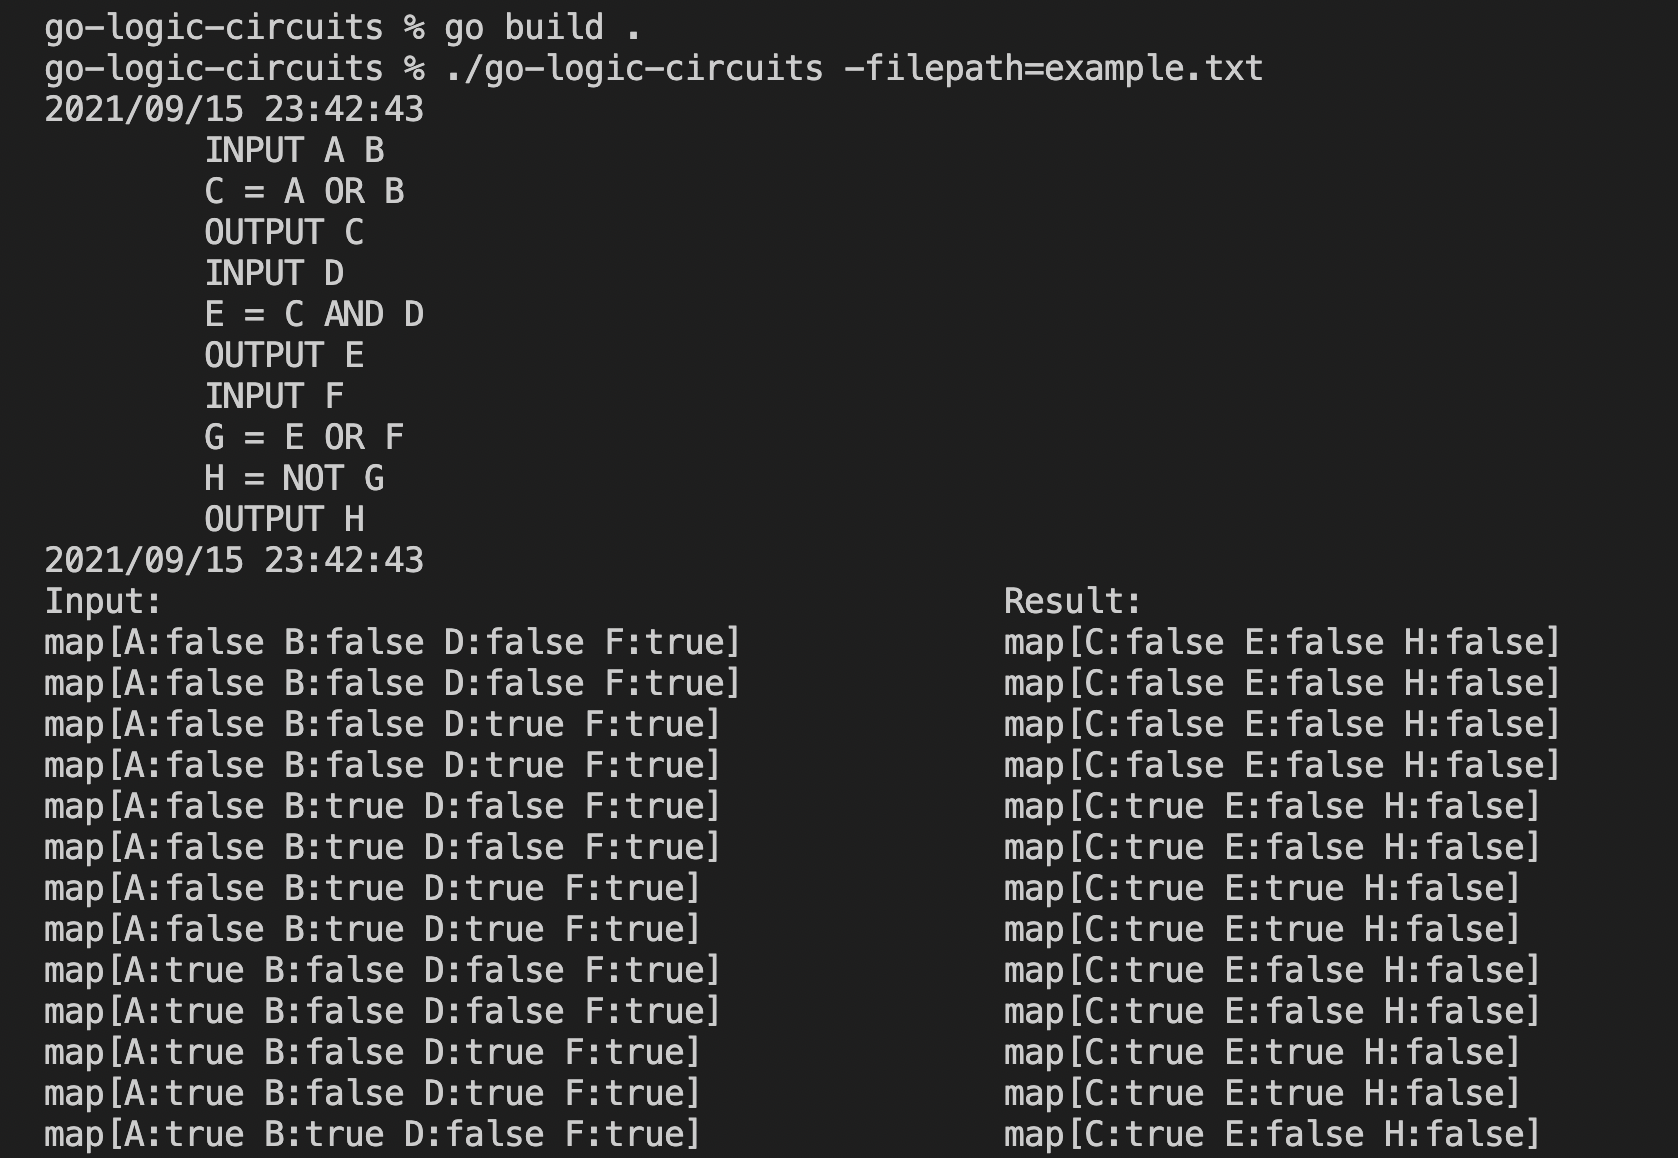
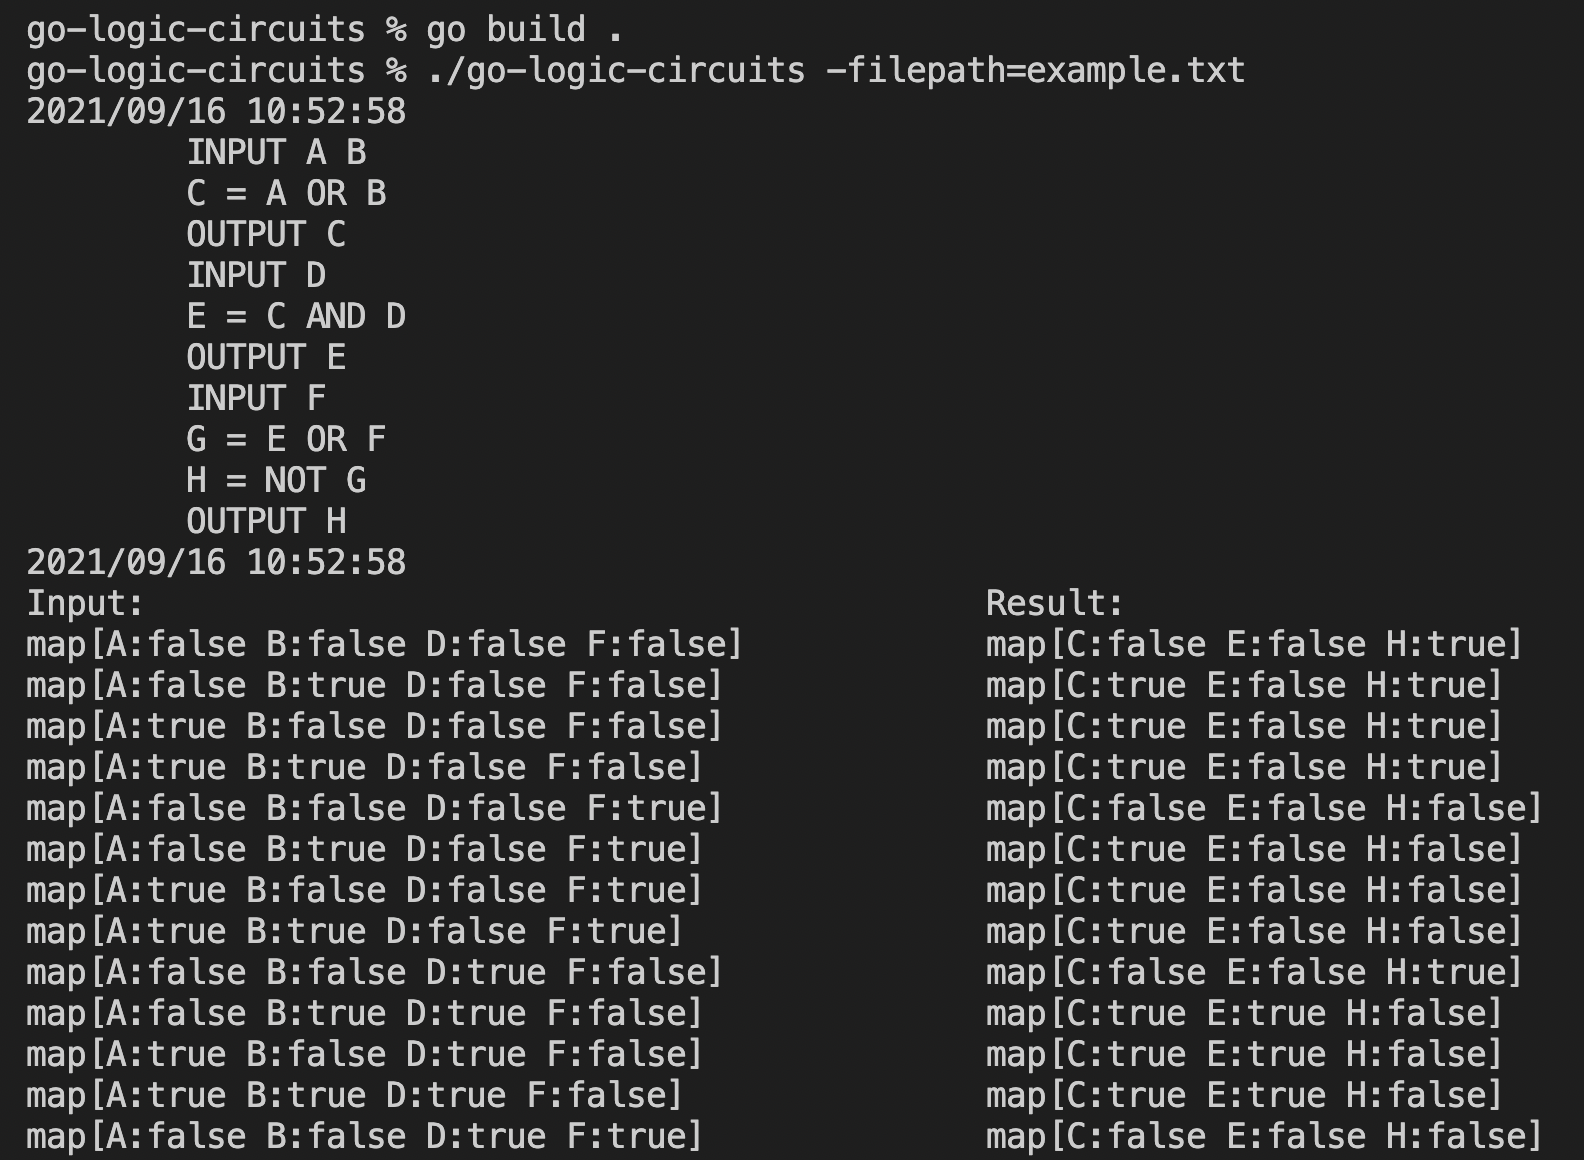
update image and small code change

Changed region(s): [[0.0, 0.0, 0.7734, 0.9948], [0.5878, 0.4974, 0.9899, 0.9948]]

diff --git a/main.go b/main.go
@@ -88,7 +88,8 @@ func main() {
 	} else {
 		// run an enumeration
 		tree := makeTree(len(circ.InputNodes) + 1)
-		perms := traverseTree(tree, []int{})
+		perms := &[][]int{}
+		traverseTree(tree, []int{}, perms) // acts as a primer
 
 		// get one set ordering of key
 		keys := []string{}
@@ -98,7 +99,7 @@ func main() {
 
 		// get pairs of results
 		pairMap := [][]map[string]gates.Bit{}
-		for _, perm := range perms {
+		for _, perm := range *perms {
 			input := make(map[string]gates.Bit)
 			for i, key := range keys {
 				input[key] = gates.Bit(perm[i] == 1)
@@ -155,19 +156,23 @@ func makeTree(n int) *Node {
 	return root
 }
 
-func traverseTree(root *Node, curr []int) [][]int {
-	res := [][]int{}
+func traverseTree(root *Node, curr []int, res *[][]int) *[][]int {
 
 	if root.left == nil && root.right == nil {
 		curr = append(curr, root.val)
-		res = append(res, curr)
-		return res
+		*res = append(*res, curr)
 	} else {
 		if root.val != -1 {
 			curr = append(curr, root.val)
 		}
-		res = append(res, traverseTree(root.left, curr)...)
-		res = append(res, traverseTree(root.right, curr)...)
+		// copies are necessary since curr is slice
+		// passed by reference by default
+		leftcopy := make([]int, len(curr))
+		rightcopy := make([]int, len(curr))
+		copy(leftcopy, curr)
+		copy(rightcopy, curr)
+		traverseTree(root.left, leftcopy, res)
+		traverseTree(root.right, rightcopy, res)
 	}
 
 	return res
